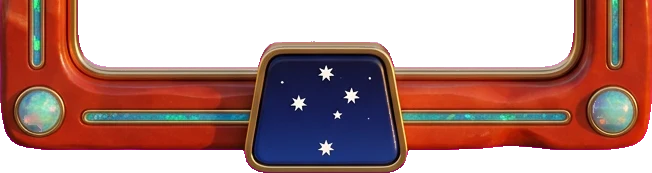
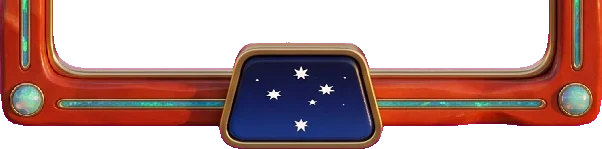
2.2: slimmer Sydney frame; room above the cards so toppers are never cut off on small phones
Claude-Session: https://claude.ai/code/session_01EnXvJ6P6HcGRxjBSnYPdAU

diff --git a/www/assets/v22.js b/www/assets/v22.js
@@ -69,7 +69,7 @@
     rivalFace(v === 'me' ? 'me' : +v, k).then(u => { if (u) el.style.backgroundImage = `url(${u})`; }); });
 
   // ── 2. FINALS: a full league bar unlocks that league's Final; winning it lifts the cup and opens the next league
-  const FRAMES = new Set([6, 16]), BADGES = new Set([6, 16]), FDIM = { 6: [0.3037, 0.2653], 16: [0.2241, 0.2241] };
+  const FRAMES = new Set([6, 16]), BADGES = new Set([6, 16]), FDIM = { 6: [0.289, 0.2475], 16: [0.2241, 0.2241] };
   function F() { const f = sec('finals'); if (!f.won) { f.won = {}; f.ready = {}; const hi = highestLeagueIdx(); for (let i = 1; i < hi; i++) f.won[i] = 1; save(); } return f; }
   const finalWon = i => !!F().won[i], finalReady = i => !!F().ready[i] && !F().won[i];
   const cupsWon = () => Object.keys(F().won).filter(k => +k >= 1).length;
@@ -159,7 +159,7 @@
   #v2deck .v2top::before{content:'';position:absolute;left:0;right:0;top:0;height:calc(env(safe-area-inset-top,0px) + 22px);background:linear-gradient(rgba(6,34,80,.75),rgba(6,34,80,.35) 55%,rgba(6,34,80,0));pointer-events:none}
   #v2deck .v2pz2{min-width:0;width:100%;box-sizing:border-box}#v2deck .v2pz2 .g{min-width:0}#v2deck .v2pz2 .g:first-child h5{padding-right:0}#v2deck .v2pz2 .row span{min-width:0}#v2deck .tcard.pt .v2tgt{font-size:12px;white-space:normal;text-align:center}#v2deck .tcard.pt .v2tgt b{font-size:16px}
   #v2deck .v2pz2{padding:4px 2px 5px}#v2deck .v2pz2 .g{flex-basis:36%}#v2deck .v2pz2 .row{gap:3px;justify-content:space-evenly}#v2deck .v2pz2 .row img{height:23px}#v2deck .v2pz2 .row span{font-size:11px}#v2deck .v2pz2 h5{font-size:10.5px;padding-right:16px}#v2deck .v2info2{width:19px;height:19px;font-size:11px;top:3px;right:3px}
-  #v2deck .tcard{flex-basis:73vw;max-width:350px;align-self:center}#v2deck .v2rail{padding-left:13.5vw;padding-right:13.5vw;padding-top:6px}
+  #v2deck .tcard{flex-basis:73vw;max-width:350px;align-self:center}#v2deck .v2rail{padding-left:13.5vw;padding-right:13.5vw;padding-top:52px}
   .tcard.pt .crest::after{display:none}
   .tcard.pt .ban::after{animation-duration:9s}
   .tcard.pt .rib{display:none}
@@ -293,8 +293,8 @@
   @media (max-height:620px){.tcard.pt{--ph:84}.tcard.pt .v2prz .row:last-child{display:none}.tcard.pt .v2prz h5:nth-of-type(2){display:none}}
   #v2deck .v2pz2 .row span{font-size:12.5px}#v2deck .v2pz2 h5{font-size:11px;white-space:nowrap;letter-spacing:.03em}#v2deck .v2pz2 .row img{height:25px}#v2deck .v2pz2 em{font-size:12px}
   .tcard.pt.tf::after{border:0!important;border-image:none!important;--fw:calc(100cqw + 2 * var(--pad,22px));background:var(--ft) center top/100% auto no-repeat,var(--fb) center bottom/100% auto no-repeat,var(--fm) center calc(var(--fw) * var(--fr1))/100% calc(100% - var(--fw) * (var(--fr1) + var(--fr2))) no-repeat}
-  .tcard.pt.tf{overflow:visible}.tcard.pt.tf::after{top:calc(var(--fw) * var(--ftop,-.06) + 3px);bottom:calc(var(--fw) * var(--fbot,-.06) + 3px)}.tcard.pt.tf{padding-bottom:34px}.tcard.pt.tf[data-lg="6"]{--pad:35px;--ftop:-.14;--fbot:-.035}.tcard.pt.tf[data-lg="16"]{--pad:31px;--ftop:-.102;--fbot:-.03}.v2go.gold{white-space:nowrap;font-size:clamp(14px,4.6vw,20px);padding:0 6px}.v2go.gold img{height:20px}
-  @media (max-height:760px){.tcard.pt{padding-bottom:20px}.tcard.pt .ban.bimg{width:60%}.tcard.pt .rib{display:none}.tcard.pt .v2tgt{font-size:12px}.tcard.pt .v2prz .row img{height:24px}#v2deck .v2rail{padding-top:6px}.tcard.pt .crest{margin-top:-16px}.tcard.pt .v2road{display:none}.tcard{gap:6px}.tcard .hero{height:104px}.tcard .crest{margin-top:-50px}.tcard .v2road{padding:3px 8px}.tcard .v2road .tx small{display:none}.tcard .v2face{width:34px;height:34px}.v2prz h5{margin:0 0 2px}.v2prz .row img{height:26px}.v2go{height:46px;font-size:20px}.tcard .crest .cup{height:72px}.mcard .post{display:none}.mcard .ico{height:64px}.mcard h4{font-size:28px}.v2rail{padding-top:48px}}`;
+  .tcard.pt.tf{overflow:visible}.tcard.pt.tf::after{top:calc(var(--fw) * var(--ftop,-.06) + 3px);bottom:calc(var(--fw) * var(--fbot,-.06) + 3px)}.tcard.pt.tf{padding-bottom:34px}.tcard.pt.tf[data-lg="6"]{--pad:30px;--ftop:-.151;--fbot:-.038}.tcard.pt.tf[data-lg="16"]{--pad:31px;--ftop:-.102;--fbot:-.03}.v2go.gold{white-space:nowrap;font-size:clamp(14px,4.6vw,20px);padding:0 6px}.v2go.gold img{height:20px}
+  @media (max-height:760px){.tcard.pt{padding-bottom:20px}.tcard.pt .ban.bimg{width:60%}#v2deck .v2rail{padding-top:52px!important}.tcard.pt .rib{display:none}.tcard.pt .v2tgt{font-size:12px}.tcard.pt .v2prz .row img{height:24px}#v2deck .v2rail{padding-top:6px}.tcard.pt .crest{margin-top:-16px}.tcard.pt .v2road{display:none}.tcard{gap:6px}.tcard .hero{height:104px}.tcard .crest{margin-top:-50px}.tcard .v2road{padding:3px 8px}.tcard .v2road .tx small{display:none}.tcard .v2face{width:34px;height:34px}.v2prz h5{margin:0 0 2px}.v2prz .row img{height:26px}.v2go{height:46px;font-size:20px}.tcard .crest .cup{height:72px}.mcard .post{display:none}.mcard .ico{height:64px}.mcard h4{font-size:28px}.v2rail{padding-top:48px}}`;
   document.head.appendChild(css);
 
   // ── overlay helpers
